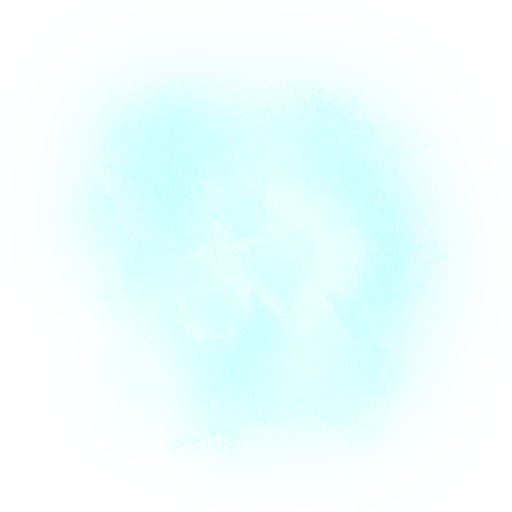
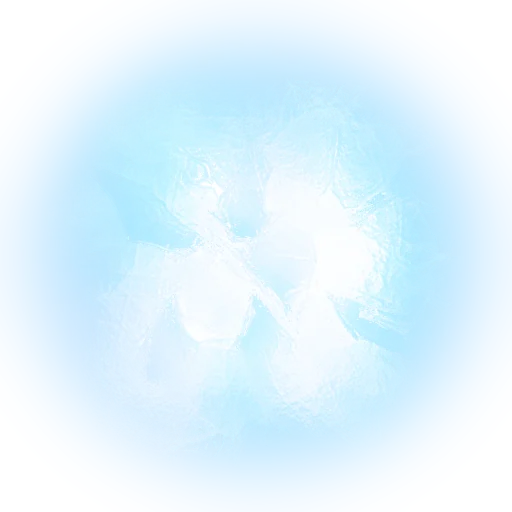
Ice and water hazards drawn as soft-edged pools (bigger, opaque) so the cryo and flooded floors read

diff --git a/js/data.js b/js/data.js
@@ -214,13 +214,13 @@
     command: { name: '철혈 사령부', en: 'IRON COMMAND', ...LOOK(FLOORS[5]) },
     // new looks
     frost: { name: '동결 저장고', en: 'CRYO VAULT', floor: 'floor_tread', alt: 'floor_frame', face: 'wall_face_e', cap: 'wall_cap_b', tint: [0.7, 0.9, 1.38], light: 0x9fe8ff, music: ['tension1', 'battle'],
-      decal: 'deco_ice', hazard: 'ice', props: ['prop_cargo', 'prop_console'] },
+      decal: 'deco_ice', decalAlpha: 1, decalSize: 1.3, hazard: 'ice', props: ['prop_cargo', 'prop_console'] },
     foundry: { name: '용광로 구역', en: 'FOUNDRY', floor: 'floor_bigplate', alt: 'floor_brick', face: 'wall_face_g', cap: 'wall_cap_b', tint: [1.38, 0.76, 0.52], light: 0xff5020, music: ['battle2', 'march'],
       decal: 'deco_lava', decalAdd: true, decalAlpha: 0.95, hazard: 'lava', props: ['prop_cargo', 'prop_machine'] },
     toxic: { name: '오염 처리장', en: 'TOXIC WORKS', floor: 'floor_ventgrid', alt: 'floor_pipe', face: 'wall_face_f', cap: 'wall_cap_b', tint: [0.76, 1.24, 0.64], light: 0x9dff40, music: ['horror2', 'tension2'],
       decal: 'deco_toxic', decalAdd: true, decalAlpha: 0.75, hazard: 'toxic', props: ['prop_tank', 'prop_machine'] },
     flood: { name: '수몰 구역', en: 'FLOODED SECTOR', floor: 'floor_hatch', alt: 'floor_deck', face: 'wall_face_h', tint: [0.6, 0.88, 1.22], light: 0x2a90ff, music: ['battle4', 'stage10'],
-      decal: 'deco_water', decalAdd: true, decalAlpha: 0.8, hazard: 'water', props: ['prop_cargo', 'prop_tank'] },
+      decal: 'deco_water', decalAlpha: 1, decalSize: 1.35, hazard: 'water', props: ['prop_cargo', 'prop_tank'] },
     power: { name: '발전 구역', en: 'POWER PLANT', floor: 'floor_panel2', alt: 'floor_plate', face: 'wall_face_c', cap: 'wall_cap_b', tint: [1.12, 1.06, 0.68], light: 0xffe040, music: ['northern', 'outctrl'],
       decal: 'deco_pit', decalAspect: 0.62, hazard: 'shock', props: ['prop_core', 'prop_console'] },
   };

diff --git a/js/level.js b/js/level.js
@@ -356,7 +356,7 @@
         if (r.type === 'start' || r.type === 'shop') return;
         const n = r.type === 'boss' ? 4 : r.type === 'combat' ? 2 + Math.floor(rnd() * 2) : 1;
         for (let i = 0; i < n; i++) {
-          const w = 2.6 + rnd() * 2.2, h = w * (F.decalAspect || 0.8);
+          const w = (2.6 + rnd() * 2.2) * (F.decalSize || 1), h = w * (F.decalAspect || 0.8);
           const x = r.x0 + 1.5 + rnd() * Math.max(0.1, r.w - 3 - w), y = r.y0 + 1.5 + rnd() * Math.max(0.1, r.h - 3 - h);
           if (Math.hypot(x + w / 2 - r.cx, y + h / 2 - r.cy) < 2.2 && r.type !== 'combat') continue; // keep chests / exits / boss spawns clear
           dz.q(x, y, x + w, y + h, 0, 0, 1, 1);

diff --git a/tools/build_theme_tiles.py b/tools/build_theme_tiles.py
@@ -47,6 +47,21 @@ def glowify(im, rgb, blur=6, k=1.6):
     return out
 
 
+def pool(detail, base_rgb, base_a, detail_rgb, k):
+    """a soft-edged coloured pool (radial alpha) with the original texture laid over it"""
+    W, H = detail.size
+    m = Image.new("L", (W, H), 0)
+    from PIL import ImageDraw
+    ImageDraw.Draw(m).ellipse((W * 0.06, H * 0.08, W * 0.94, H * 0.92), fill=255)
+    m = m.filter(ImageFilter.GaussianBlur(W * 0.07))
+    base = Image.new("RGBA", (W, H), base_rgb + (0,))
+    base.putalpha(m.point(lambda v: int(v * base_a)))
+    d = tint(detail.convert("RGBA"), detail_rgb, k)
+    da = ImageChops.multiply(d.split()[3], m)
+    d.putalpha(da)
+    return Image.alpha_composite(base, d)
+
+
 def main():
     os.makedirs(OUT, exist_ok=True)
     atl = Image.open(SF + "Atlas1_m.tif").convert("RGB")
@@ -77,7 +92,7 @@ def main():
 
     # floor decals (RGBA) from original FX ground textures
     ice = Image.open(AB + "AssetBundleResourceSub/FX/Texture/Rhea_ice_ground_Crack_text2.png").convert("RGBA")
-    save(tint(ice, (200, 235, 255), 1.15), "deco_ice", (512, 512))
+    save(pool(ice.resize((512, 512)), (150, 210, 255), 0.62, (225, 245, 255), 1.25), "deco_ice", (512, 512))
     crack = Image.open(AB + "AssetBundleResourceSub/FX/Texture/PD_ground_crack.png").convert("RGBA")
     save(glowify(crack, (255, 110, 40), blur=8, k=2.2), "deco_lava", (512, 512))
     save(glowify(crack, (90, 220, 255), blur=6, k=1.8), "deco_arc", (512, 512))
@@ -86,7 +101,11 @@ def main():
     for i in range(2):
         for j in range(2):
             w4.paste(water.resize((128, 128)), (i * 128, j * 128))
-    save(tint(w4, (90, 170, 255), 1.3), "deco_water", (256, 256))
+    w8 = Image.new("RGBA", (512, 512))
+    for i in range(4):
+        for j in range(4):
+            w8.paste(water.resize((128, 128)), (i * 128, j * 128))
+    save(pool(w8, (20, 70, 140), 0.78, (120, 200, 255), 1.6), "deco_water", (512, 512))
     save(tint(w4, (120, 255, 90), 1.3), "deco_toxic", (256, 256))
     pit = Image.open(AB + "AssetBundleResource/FX/character_prefab/Rhode_skill/Rhode_Ns1_skill/skill2/eff_rhode_skill2_ground_01.png").convert("RGBA")
     save(pit, "deco_pit", (512, 512))
